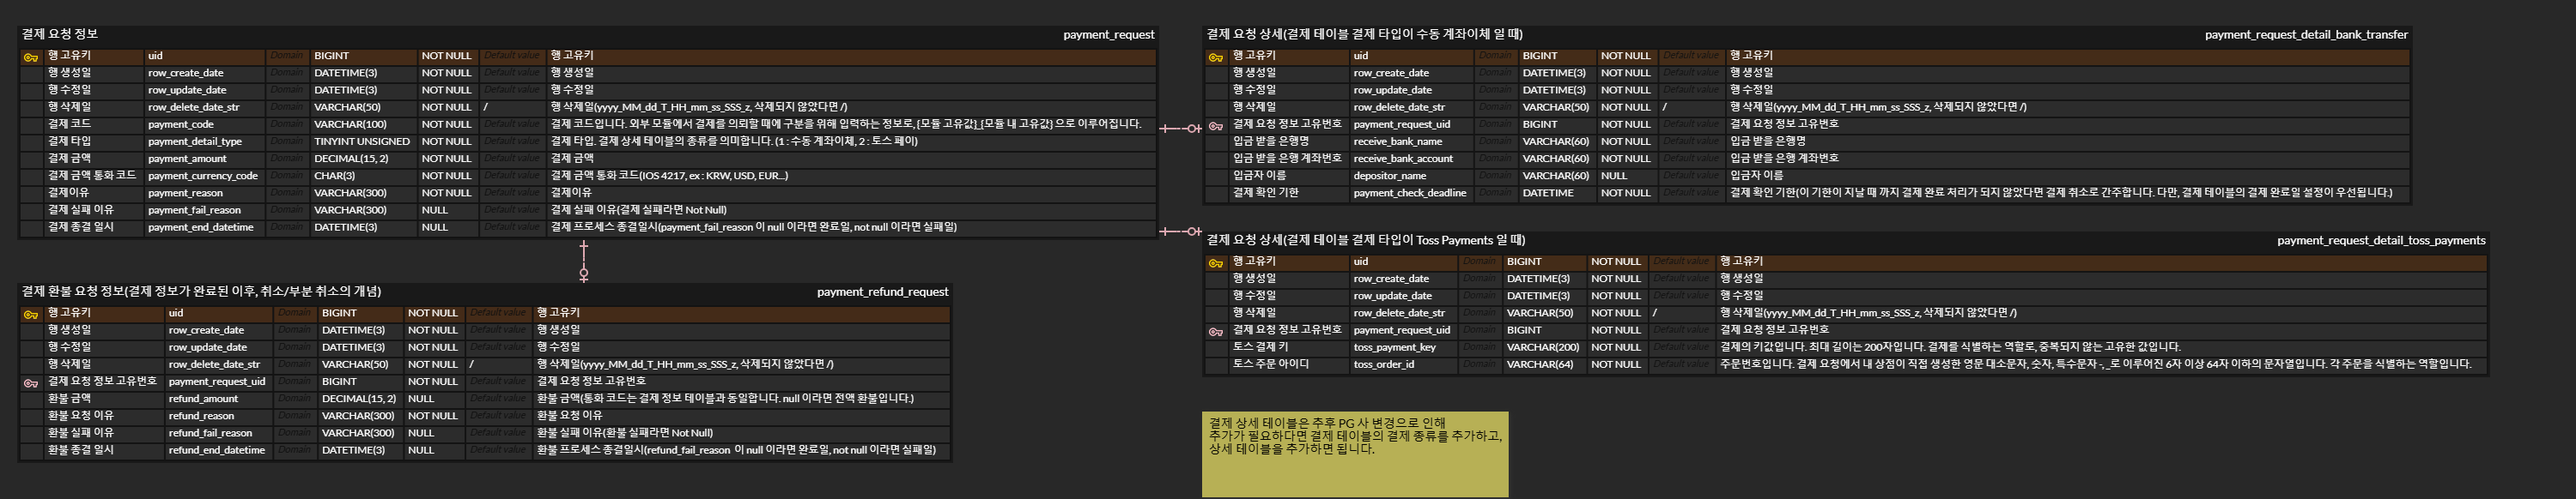
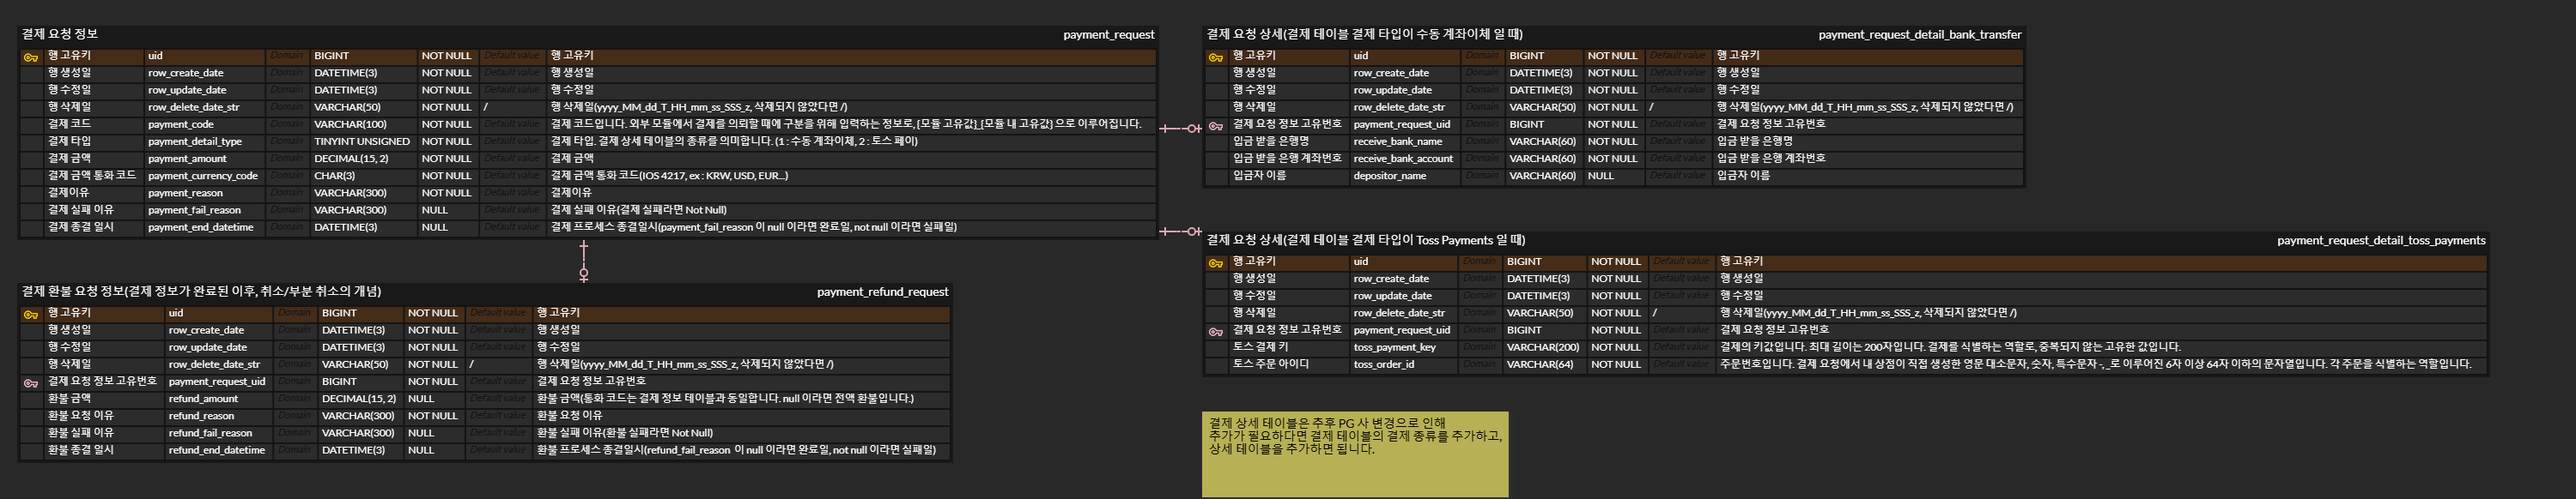
feat : 수동 결제 요청 api 추가

diff --git a/module-payment/src/main/kotlin/com/raillylinker/controllers/PaymentController.kt b/module-payment/src/main/kotlin/com/raillylinker/controllers/PaymentController.kt
@@ -1,8 +1,12 @@
 package com.raillylinker.controllers
 
+import com.fasterxml.jackson.annotation.JsonProperty
 import com.raillylinker.services.PaymentService
 import io.swagger.v3.oas.annotations.Operation
 import io.swagger.v3.oas.annotations.Parameter
+import io.swagger.v3.oas.annotations.headers.Header
+import io.swagger.v3.oas.annotations.media.Content
+import io.swagger.v3.oas.annotations.media.Schema
 import io.swagger.v3.oas.annotations.responses.ApiResponse
 import io.swagger.v3.oas.annotations.responses.ApiResponses
 import io.swagger.v3.oas.annotations.tags.Tag
@@ -10,6 +14,7 @@ import jakarta.servlet.http.HttpServletResponse
 import org.springframework.http.MediaType
 import org.springframework.stereotype.Controller
 import org.springframework.web.bind.annotation.*
+import java.math.BigDecimal
 
 @Tag(name = "/payment APIs", description = "결제 API 컨트롤러")
 @Controller
@@ -23,31 +28,87 @@ class PaymentController(
     // ---------------------------------------------------------------------------------------------
     // <매핑 함수 공간>
     @Operation(
-        summary = "비 로그인 접속 테스트",
-        description = "비 로그인 접속 테스트용 API"
+        summary = "수동 결제 요청",
+        description = "수동 결제 요청 API"
     )
     @ApiResponses(
         value = [
             ApiResponse(
                 responseCode = "200",
                 description = "정상 동작"
+            ),
+            ApiResponse(
+                responseCode = "204",
+                content = [Content()],
+                description = "Response Body 가 없습니다.<br>" +
+                        "Response Headers 를 확인하세요.",
+                headers = [
+                    Header(
+                        name = "api-result-code",
+                        description = "(Response Code 반환 원인) - Required<br>" +
+                                "1 : 통화 코드값의 길이는 3이어야 합니다.",
+                        schema = Schema(type = "string")
+                    )
+                ]
             )
         ]
     )
-    @GetMapping(
-        path = ["/for-no-logged-in"],
-        consumes = [MediaType.ALL_VALUE],
-        produces = [MediaType.TEXT_PLAIN_VALUE]
+    @PostMapping(
+        path = ["/bank-transfer/request"],
+        consumes = [MediaType.APPLICATION_JSON_VALUE],
+        produces = [MediaType.APPLICATION_JSON_VALUE]
     )
     @ResponseBody
-    fun noLoggedInAccessTest(
+    fun postBankTransferRequest(
         @Parameter(hidden = true)
-        httpServletResponse: HttpServletResponse
-    ): String? {
-        return service.noLoggedInAccessTest(httpServletResponse)
+        httpServletResponse: HttpServletResponse,
+        @RequestBody
+        inputVo: PostBankTransferRequestInputVo
+    ): PostBankTransferRequestOutputVo? {
+        return service.postBankTransferRequest(
+            httpServletResponse,
+            inputVo
+        )
     }
 
-    // todo : 수동 결제 요청
+    data class PostBankTransferRequestInputVo(
+        @Schema(
+            description = "결제 코드입니다. 외부 모듈에서 결제를 의뢰할 때에 구분을 위해 입력하는 정보로, {모듈 고유값}_{모듈 내 고유값} 으로 이루어집니다.",
+            required = true,
+            example = "module1_uid1"
+        )
+        @JsonProperty("paymentCode")
+        val paymentCode: String,
+        @Schema(description = "결제 금액", required = true, example = "1000")
+        @JsonProperty("paymentAmount")
+        val paymentAmount: BigDecimal,
+        @Schema(
+            description = "결제 금액 통화 코드(IOS 4217, ex : KRW, USD, EUR...)",
+            required = true,
+            example = "KRW"
+        )
+        @JsonProperty("currencyCode")
+        val currencyCode: String,
+        @Schema(description = "결제 이유", required = true, example = "상품 구입")
+        @JsonProperty("paymentReason")
+        val paymentReason: String,
+        @Schema(description = "입금 받을 은행명", required = true, example = "서울은행")
+        @JsonProperty("receiveBankName")
+        val receiveBankName: String,
+        @Schema(description = "입금 받을 은행 계좌번호", required = true, example = "11-11111-1111")
+        @JsonProperty("receiveBankAccount")
+        val receiveBankAccount: String,
+        @Schema(description = "입금자 이름", required = false, example = "홍길동")
+        @JsonProperty("depositoryName")
+        val depositoryName: String?
+    )
+
+    data class PostBankTransferRequestOutputVo(
+        @Schema(description = "payment request 고유값", required = true, example = "1")
+        @JsonProperty("paymentRequestUid")
+        val paymentRequestUid: Long
+    )
+
     // todo : 수동 결제 전액 환불 신청
     // todo : 수동 결제 부분 환불 신청
 

diff --git a/module-payment/src/main/kotlin/com/raillylinker/services/PaymentService.kt b/module-payment/src/main/kotlin/com/raillylinker/services/PaymentService.kt
@@ -1,5 +1,9 @@
 package com.raillylinker.services
 
+import com.raillylinker.configurations.jpa_configs.Db1MainConfig
+import com.raillylinker.controllers.PaymentController
+import com.raillylinker.jpa_beans.db1_main.entities.Db1_RaillyLinkerCompany_PaymentRequest
+import com.raillylinker.jpa_beans.db1_main.entities.Db1_RaillyLinkerCompany_PaymentRequestDetailBankTransfer
 import com.raillylinker.jpa_beans.db1_main.repositories.*
 import com.raillylinker.kafka_components.producers.Kafka1MainProducer
 import com.raillylinker.util_components.JwtTokenUtil
@@ -9,6 +13,7 @@ import org.slf4j.LoggerFactory
 import org.springframework.beans.factory.annotation.Value
 import org.springframework.http.HttpStatus
 import org.springframework.stereotype.Service
+import org.springframework.transaction.annotation.Transactional
 
 @Service
 class PaymentService(
@@ -52,9 +57,43 @@ class PaymentService(
 
     // ---------------------------------------------------------------------------------------------
     // <공개 메소드 공간>
-    // (비 로그인 접속 테스트)
-    fun noLoggedInAccessTest(httpServletResponse: HttpServletResponse): String? {
-        httpServletResponse.status = HttpStatus.OK.value()
-        return externalAccessAddress
+    // (수동 결제 요청)
+    @Transactional(transactionManager = Db1MainConfig.TRANSACTION_NAME)
+    fun postBankTransferRequest(
+        httpServletResponse: HttpServletResponse,
+        inputVo: PaymentController.PostBankTransferRequestInputVo
+    ): PaymentController.PostBankTransferRequestOutputVo? {
+        if (inputVo.currencyCode.length != 3) {
+            // 통화 코드값의 길이는 3이어야 합니다.
+            httpServletResponse.status = HttpStatus.NO_CONTENT.value()
+            httpServletResponse.setHeader("api-result-code", "1")
+            return null
+        }
+
+        val paymentRequest =
+            db1RaillyLinkerCompanyPaymentRequestRepository.save(
+                Db1_RaillyLinkerCompany_PaymentRequest(
+                    inputVo.paymentCode,
+                    1,
+                    inputVo.paymentAmount,
+                    inputVo.currencyCode.uppercase(),
+                    inputVo.paymentReason,
+                    null,
+                    null
+                )
+            )
+
+        db1RaillyLinkerCompanyPaymentRequestDetailBankTransferRepository.save(
+            Db1_RaillyLinkerCompany_PaymentRequestDetailBankTransfer(
+                paymentRequest,
+                inputVo.receiveBankName,
+                inputVo.receiveBankAccount,
+                inputVo.depositoryName
+            )
+        )
+
+        return PaymentController.PostBankTransferRequestOutputVo(
+            paymentRequest.uid!!
+        )
     }
 }

diff --git a/module-payment/src/main/kotlin/com/raillylinker/jpa_beans/db1_main/entities/Db1_RaillyLinkerCompany_PaymentRequestDetailBankTransfer.kt b/module-payment/src/main/kotlin/com/raillylinker/jpa_beans/db1_main/entities/Db1_RaillyLinkerCompany_PaymentRequestDetailBankTransfer.kt
@@ -30,11 +30,7 @@ class Db1_RaillyLinkerCompany_PaymentRequestDetailBankTransfer(
 
     @Column(name = "depositor_name", nullable = true, columnDefinition = "VARCHAR(60)")
     @Comment("입금자 이름")
-    var depositorName: String?,
-
-    @Column(name = "payment_check_deadline", nullable = false, columnDefinition = "DATETIME")
-    @Comment("결제 확인 기한(이 기한이 지날 때 까지 결제 완료 처리가 되지 않았다면 결제 취소로 간주합니다. 다만, 결제 테이블의 결제 완료일 설정이 우선됩니다.)")
-    var paymentCheckDeadline: LocalDateTime
+    var depositorName: String?
 ) {
     @Id
     @GeneratedValue(strategy = GenerationType.IDENTITY)
